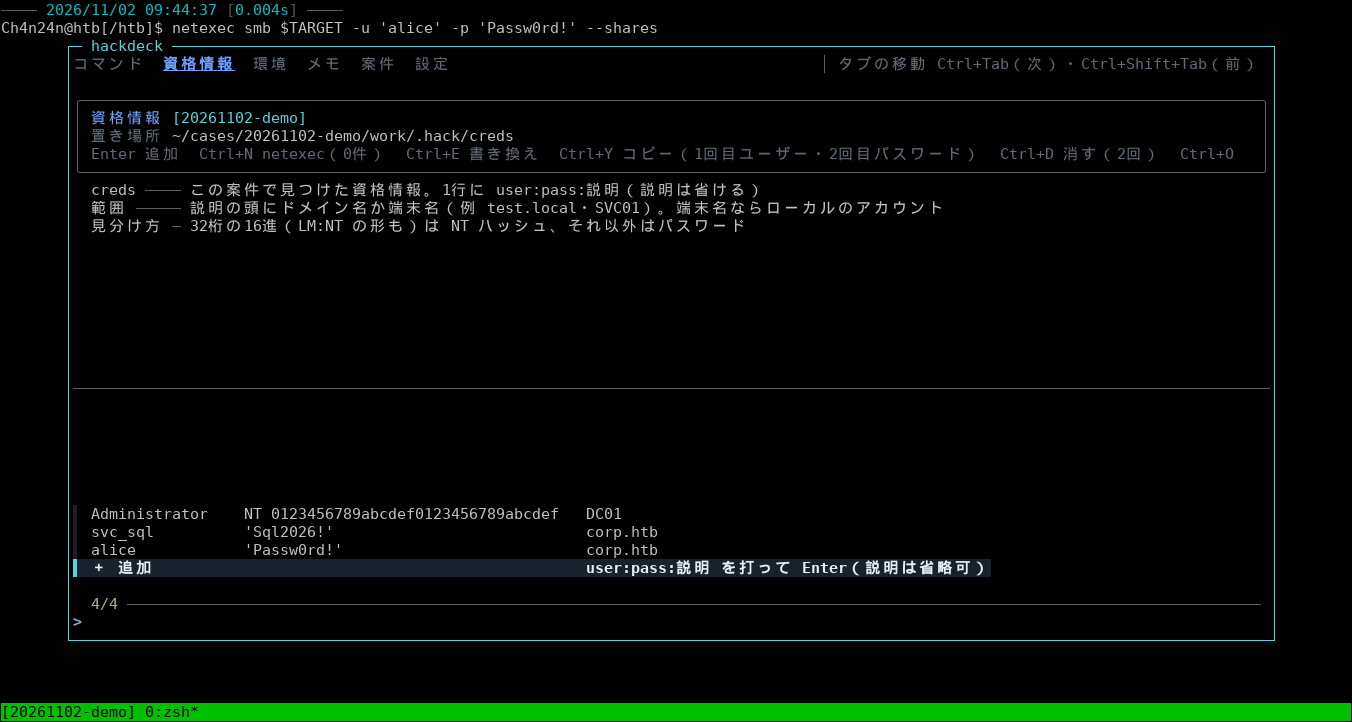
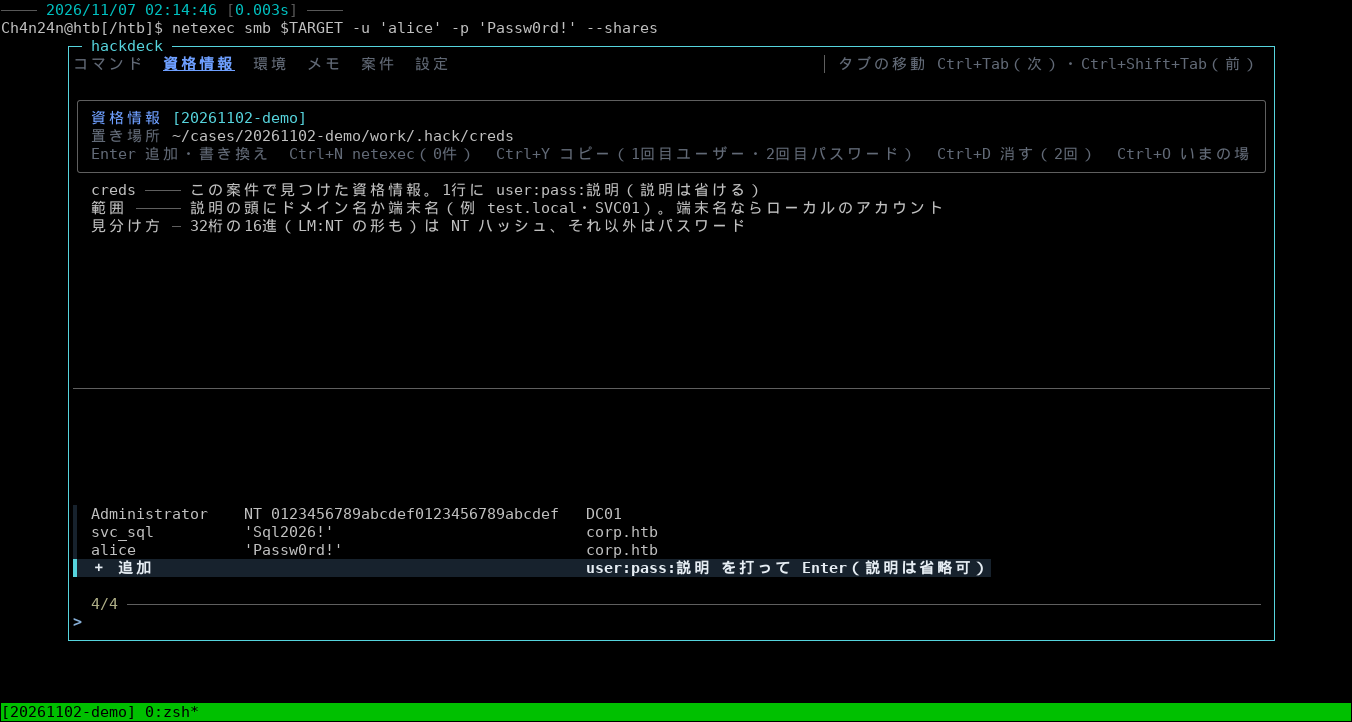
2026-11-07 の版: 資格情報・環境・設定の一覧は、行を選んで Enter で書き換え（Ctrl+E を外した）。Ctrl+W は空白と記号で止まる（user:pass:説明 を項目ごとに消せる）。環境のタブで、値に : がある変数を書き換えても壊れないように

diff --git a/hackdeck/tab_settings.py b/hackdeck/tab_settings.py
@@ -5,7 +5,7 @@
   choice     候補から選ぶ（配色。選ぶとすぐ変わる）
   bool       開かない。一覧で Enter を押すたびに、する・しないが変わる
   dir・text  いまの値を検索欄に出し、直して Enter で保存（打つたびに、値の問題を settings.problem で一言出す）
-  list       一覧を書く（Enter 足す・Ctrl+E 書き換え・Ctrl+D 外す）。settings.json の配列
+  list       一覧を書く（＋の行で Enter 足す・ほかの行で Enter 書き換え・Ctrl+D 外す）。settings.json の配列
   common     よく使うユーザー・パスワード（list と同じ操作。中身は paths.COMMON_CREDS）"""
 import os
 import shlex
@@ -148,8 +148,8 @@ def settings_screen(e, can_back, can_fwd):
     「設定タブは項目にし、クリックした後に選べるように」。はじめは1回のクリックで開いていたが、2026-11-01、どの画面もクリックの
     決まりをそろえるときに本人が「2回で決める」を選んだ。ui.fzf_run）。配色は選ぶとすぐ色が変わり、その画面のまま（本人の指摘「配色を変えても
     前のタブに移らなくていい」）。値を書く項目は、いまの値を検索欄に出し、直して Enter で保存して一覧に戻る（Alt+← でやめる）。
-    一覧を書く項目は、Enter 足す・Ctrl+E 書き換え・Ctrl+D 外す、Esc で項目の一覧に戻る（よく使うものは、はじめは大きいタブの
-    「よく使う」で書いていたが、2026-10-30、本人の指摘「ユーザーとパスワードは別々の設定項目に」でここへ移した）。
+    一覧を書く項目は、＋の行で Enter 足す・ほかの行で Enter 書き換え・Ctrl+D 外す、Esc で項目の一覧に戻る（よく使うものは、
+    はじめは大きいタブの「よく使う」で書いていたが、2026-10-30、本人の指摘「ユーザーとパスワードは別々の設定項目に」でここへ移した）。
     e: 列の1つ（v 開いている項目・q 検索語・f カーソルの行・e 書いている行・t 書き換える前の行）。戻り値は var_screen と同じ"""
     key, editing = e.get("v") or "", e.get("e")
     s = BY_KEY.get(key)
@@ -181,7 +181,7 @@ def settings_screen(e, can_back, can_fwd):
         line2 = f"いま {shown_value(s)}" if editing is None else "直して Enter で保存"
         srcs = [("書き方", s.hint), *where_lines(s)]
     else:
-        hint = ["Enter 追加", "Ctrl+E 書き換え", "Ctrl+D 外す（2回）"] \
+        hint = ["Enter 追加・書き換え", "Ctrl+D 外す（2回）"] \
             + (["Ctrl+O いまの場所に一覧を書き出す"] if s.kind == "common" else []) + nav_hint(can_back, can_fwd)
         line2 = s.help
         srcs = [("書き方", f"{s.hint} を打って Enter で足す"), *where_lines(s)]
@@ -191,7 +191,7 @@ def settings_screen(e, can_back, can_fwd):
                f"{theme.C_HINT}{line2}{C_RESET}\n{theme.C_HINT}{'  '.join(hint)}{C_RESET}")
     foot = foot_lines(srcs)
     keys = ["enter", "esc", *CLOSE_KEYS] + ([UP_KEY] if ui.NAV_UP else []) + (["tab", "btab"] if editing is None else []) \
-        + (["ctrl-d", "ctrl-e"] if listing and editing is None else []) \
+        + (["ctrl-d"] if listing and editing is None else []) \
         + (["alt-left"] if can_back else []) + (["alt-right"] if can_fwd else [])
     # どの一覧も、絞るのは hackdeck 側（c_settingrows。配色の一覧は見出しを残すため）。打ったら、いちばん下の行へ（load:first。
     # ほかのタブと同じ）
@@ -281,14 +281,13 @@ def list_action(e, s, pending, typed, key_pressed, sel, editing):
         if twice(e, pending, "del", sel, f"もう一度 Ctrl+D で外す: {items[sel].split('  ')[0].strip()}"):
             keep_place(e, sel, c_settingrows, typed, view_env, lambda: list_remove(key, sel))
         return ("stay",)
-    if key_pressed == "ctrl-e" and sel in items:
-        q0, old = list_text(key, sel)
-        return ("push", {"s": "settings", "v": key, "q": q0, "f": "save", "e": sel, "t": old})
     if key_pressed not in ("enter", ""):
         return nav_key(key_pressed, "settings")
-    if sel in items:   # 資格情報・環境のタブと同じ（前は、どの行で Enter しても打った文字を足していた）
-        e["msg"] = "書き換えは Ctrl+E（Enter は一番下の行で足す）"
-        return ("stay",)
+    if sel in items:
+        # 書き換え（資格情報・環境のタブと同じく、行を選んで Enter で。2026-11-07 から。前は Ctrl+E で、Enter は「書き換えは
+        # Ctrl+E」と出すだけ。その前は、どの行で Enter しても打った文字を足していた）。一覧の検索欄はそのまま（資格情報のタブと同じ）
+        q0, old = list_text(key, sel)
+        return ("push", {"s": "settings", "v": key, "q": q0, "f": "save", "e": sel, "t": old})
     text = typed.strip()
     why = item_problem(key, text)
     if why or not text:
@@ -347,7 +346,7 @@ def common_save(e, key, text, editing):
         return ("saved", f"cm:{i}" if i is not None else None)
     shown = common_shown(parse_cred_line(line, True), key)
     if any(common_shown(c, key) == shown for c in common_items(key)):
-        e["msg"] = f"{shown} はもうある（説明を変えるなら Ctrl+E）"
+        e["msg"] = f"{shown} はもうある（説明を変えるなら、その行で Enter）"
         return ("stay",)
     common_write(lines + [line])
     e["q"] = ""   # 打つ行に留まる

diff --git a/hackdeck/tab_env.py b/hackdeck/tab_env.py
@@ -39,7 +39,7 @@ def c_envrows(query=""):
         else:
             hint = f"Enter で {n} を足す" + ("" if n in keep else "（シェルの export でも書き戻すようにする）")
     else:
-        hint = "名前:値:説明 の形で打つ" if query else "名前:値:説明 を打って Enter（値・説明は省けて、名前だけでも足せる。例 DC01:10.10.11.5:DC）。書き換えは Ctrl+E"
+        hint = "名前:値:説明 の形で打つ" if query else "名前:値:説明 を打って Enter（値・説明は省けて、名前だけでも足せる。例 DC01:10.10.11.5:DC）"
     w = max([display_width(n) for n in [*vals, *keep]] + [12])
     print(f"add\t{fit('＋ 保存' if editing else '＋ 追加', w)}  {fit(query, 36)}  {hint}")
     if editing:
@@ -65,15 +65,16 @@ def c_envcopy(key):
 
 def env_screen(e, can_back, can_fwd):
     """環境の画面（大きいタブの「環境」。2026-10-30、tmux-op の op-env を合流）。案件の環境変数のファイル（env）の
-    変数を出し、打った 名前=値 を Enter で書く（もうある名前は、確かめてから上書き）。Ctrl+E で書き換え、Ctrl+D を2回で
+    変数を出し、打った 名前=値 を Enter で書く（もうある名前は、確かめてから上書き）。行を選んで Enter で書き換え、Ctrl+D を2回で
     消す（値の無い行なら、シェルの export で書き戻す名前から外す）、Ctrl+Y で値をコピー。操作は資格情報のタブと同じ
     （2026-10-30、本人の指摘「操作感は資格情報タブと同じに。共通にしたほうが覚えやすい」。はじめは行を選んで Enter でも
-    書き換えていた）。書いた値は、開いているどのペインも次に打つコマンドから効く（shell/hack.zsh が読み直す）。
+    書き換えていたが、そのときは資格情報のタブの Ctrl+E に寄せた。2026-11-07、本人の指摘で、どちらも行の Enter に）。
+    書いた値は、開いているどのペインも次に打つコマンドから効く（shell/hack.zsh が読み直す）。
     打った文字は、一覧を絞り（ほかのタブと同じ。絞るのは c_envrows）、そのままいちばん下の行で書く値にもなる。
     e: 列の1つ（q 検索語・f カーソルの行・e 書き換えている変数の名前）。戻り値は var_screen と同じ"""
     f, root, editing = env_file(), case_root(), e.get("e")
     if editing is None:
-        hint = ["Enter 追加", "Ctrl+E 書き換え", "Ctrl+Y $名前をコピー", "Ctrl+D 消す（2回）"] + nav_hint(can_back, can_fwd)
+        hint = ["Enter 追加・書き換え", "Ctrl+Y $名前をコピー", "Ctrl+D 消す（2回）"] + nav_hint(can_back, can_fwd)
     else:
         hint = ["Enter 保存"] + (["Alt+← 書き換えをやめる"] if can_back else []) + nav_hint(False, can_fwd)
     preview = (f"{theme.C_COMMENT}環境{C_RESET} {theme.C_TAG}[{root.name}]{C_RESET}\n"
@@ -84,7 +85,7 @@ def env_screen(e, can_back, can_fwd):
             ("export・unset", f"一覧にある名前なら、シェルで変えても {f.name} に保存される")]
     foot = foot_lines(srcs)
     keys = ["enter", "esc", *CLOSE_KEYS] + ([UP_KEY] if ui.NAV_UP else []) \
-        + (["ctrl-d", "ctrl-e", "tab", "btab"] if editing is None else []) \
+        + (["ctrl-d", "tab", "btab"] if editing is None else []) \
         + (["alt-left"] if can_back else []) + (["alt-right"] if can_fwd else [])
     pv = work_file("preview.txt", preview)
     args = ["fzf", "--layout=default", "--height=-1", "--ansi", "--disabled", "--no-sort", "--no-clear",
@@ -133,16 +134,16 @@ def env_screen(e, can_back, can_fwd):
             keep_place(e, sel, c_envrows, typed, {"HACKDECK_EDITING": ""},
                        lambda: env_keep_write([k for k in env_extra_names() if k != n]))
         return ("stay",)
-    if key == "ctrl-e" and sel.startswith("env:") and editing is None:
-        # 書き換え: 名前=いまの値 を検索ボックスに出し、Enter（保存の行）で書く（資格情報の画面の Ctrl+E と同じ）
-        d = env_name_lines().get(sel[4:], "")
-        return ("push", {"s": "env", "q": f"{sel[4:]}:{vals.get(sel[4:], '')}" + (f":{d}" if d else ""), "f": "add",
-                         "e": sel[4:]})
     if key != "enter":
         return nav_key(key, "env")
     if sel.startswith("env:"):
-        e["msg"] = "書き換えは Ctrl+E（Enter は一番下の行で足す）"
-        return ("stay",)
+        # 書き換え: 名前:いまの値:説明 を検索欄に出し、Enter（保存の行）で書く（資格情報の画面と同じく、行を選んで Enter で。
+        # 2026-11-07 から。前は Ctrl+E）。一覧の検索欄はそのまま（資格情報の画面と同じ）
+        n = sel[4:]
+        v, d = vals.get(n, ""), env_name_lines().get(n, "")
+        # 値に : があれば、説明が無くても最後に : を付ける（最後の : の後ろが説明なので。付けないと、そのまま Enter しただけで
+        # http://web01:8080 の 8080 を説明と読み、値が http://web01 になっていた）
+        return ("push", {"s": "env", "q": f"{n}:{v}" + (f":{d}" if d or ":" in v else ""), "f": "add", "e": n})
     pr = env_parse(typed) if sel == "add" else None
     if not pr or env_reserved(pr[0]):
         return ("stay",)

diff --git a/hackdeck/tab_creds.py b/hackdeck/tab_creds.py
@@ -78,8 +78,8 @@ def creds_screen(e, can_back, can_fwd):
     足し、Ctrl+D で消す（2026-10-29、本人の指摘「資格情報は自動で保存するとゴミが集まるので、Ctrl+G で入った画面の
     どこかで設定できたらいい」で追加）。打った文字は、一覧を絞り（ほかのタブと同じ。絞るのは c_credsrows）、そのまま
     いちばん下の行で足す値にもなる。
-    Ctrl+E で書き換え（保存の1行だけの画面を列に足す。Alt+← で書き換えをやめる）、Ctrl+Y でユーザー・パスワードを
-    クリップボードへ（同日、本人の指摘で追加）。
+    行を選んで Enter で書き換え（保存の1行だけの画面を列に足す。Enter で保存、Alt+← で書き換えをやめる。2026-11-07 から。前は
+    Ctrl+E）、Ctrl+Y でユーザー・パスワードをクリップボードへ（2026-10-29、本人の指摘で追加）。
     e: 列の1つ（q 検索語・f カーソルの行・e 書き換えている行の番号・t その行の書き換え前の中身・tab 大きいタブ（creds。
     同じ画面で開いていた「よく使う」は、2026-10-30 に設定のタブの2項目へ移した））。
     戻り値は var_screen と同じ。書き換えを保存したときだけ ("saved", カーソルを合わせる行)"""
@@ -100,7 +100,7 @@ def creds_screen(e, can_back, can_fwd):
     where = "~" + str(f)[len(home):] if str(f).startswith(home + "/") else str(f)
     if editing is None:
         n = len(nxc_found()[0])
-        hint = ["Enter 追加", f"Ctrl+N netexec（{n}件）", "Ctrl+E 書き換え",
+        hint = ["Enter 追加・書き換え", f"Ctrl+N netexec（{n}件）",
                 "Ctrl+Y コピー（1回目ユーザー・2回目パスワード）", "Ctrl+D 消す（2回）"] \
             + ["Ctrl+O いまの場所に一覧を書き出す"] + nav_hint(can_back, can_fwd)
     else:
@@ -115,7 +115,7 @@ def creds_screen(e, can_back, can_fwd):
             ("見分け方", "32桁の16進（LM:NT の形も）は NT ハッシュ、それ以外はパスワード")]
     foot = foot_lines(srcs)
     keys = ["enter", "esc", *CLOSE_KEYS] + ([UP_KEY] if ui.NAV_UP else []) \
-        + (["ctrl-d", "ctrl-e", "ctrl-n", "tab", "btab"] if editing is None else []) \
+        + (["ctrl-d", "ctrl-n", "tab", "btab"] if editing is None else []) \
         + (["alt-left"] if can_back else []) + (["alt-right"] if can_fwd else [])
     pv = work_file("preview.txt", preview)
     args = ["fzf", "--layout=default", "--height=-1", "--ansi", "--disabled", "--no-sort", "--no-clear",
@@ -159,18 +159,18 @@ def creds_screen(e, can_back, can_fwd):
             keep_place(e, sel, c_credsrows, typed, {"HACKDECK_EDITING": ""},
                        lambda: delete_cred(int(sel[3:]), f))
         return ("stay",)
-    if key == "ctrl-e" and sel.startswith("op:"):
-        # 書き換え: その行を検索ボックスに出し、Enter（保存の行）でその行に上書きする（2026-10-29、本人の指摘）
-        n = int(sel[3:])
-        line = f.read_text(encoding="utf-8").splitlines()[n]
-        return ("push", {"s": "creds", "tab": tab, "q": line, "f": "add", "e": n, "t": line})
     if key == "ctrl-n":
         return ("push", {"s": "nxc", "tab": tab, "q": "", "f": None})   # netexec が見つけた分（nxc_screen）
     if key != "enter":
         return nav_key(key, tab)
     if sel in rows:
-        e["msg"] = "書き換えは Ctrl+E（Enter は一番下の行で足す）"
-        return ("stay",)
+        # 書き換え: その行を検索欄に出し、Enter（保存の行）でその行に上書きする（2026-10-29、本人の指摘）。2026-11-07 から、行を
+        # 選んで Enter で（本人「既存の項目を選んで Enter したら編集モードに入り、再度 Enter したら設定のほうが直感的」。前は
+        # Ctrl+E で、Enter は「書き換えは Ctrl+E」と出すだけだった）。一覧の検索欄はそのまま（Alt+← でやめると、打っていた文字の
+        # まま戻る。同日いったん空にしたが、本人「一回戻って、再度入り直したときに、以前の記入を残すか？って話ね。なら残しておいて」）
+        n = int(sel[3:])
+        line = f.read_text(encoding="utf-8").splitlines()[n]
+        return ("push", {"s": "creds", "tab": tab, "q": line, "f": "add", "e": n, "t": line})
     if sel == "add" and CRED_ADD_RE.match(typed):
         if editing is None:
             # 同じもの（資格情報はユーザーと説明が同じ）があれば、確かめてから上書き。中身まで同じなら何もしない

diff --git a/hackdeck/fzfcall.py b/hackdeck/fzfcall.py
@@ -150,6 +150,34 @@ def c_casepos(query=""):
     print("pos(2)" if hit else "first")
 
 
+RUBOUT_MARK = "\ue000"   # Ctrl+W で、検索欄のカーソルの所に入れる目印（ui.fzf_run が put する。打つ字には出てこない私用の字）
+
+
+def word_char(c):
+    """Ctrl+W で1語とみなす字: 英数字（日本語などの字も）と _。空白と、ほかの記号（, . : ; / @ - ' " ( ) など。全角の（）、。も）で
+    止まる（VS Code の既定の語の区切りや、vim の語と同じ考え方）"""
+    return c.isalnum() or c == "_"
+
+
+def c_rubout(query):
+    """Ctrl+W（どの画面も。ui.fzf_run）。検索欄のカーソルの手前の1語を消す（すぐ前の空白・記号は先に飛ばし、その前の語の頭まで。
+    word_char）。user:pass:説明 なら項目ごと、URL・パス・IP は . や / ごとに消える（2026-11-07、本人の指摘「区切り文字を : に
+    すると Ctrl+W をしたときに、まとめてすべて削除してしまう。Ctrl+W で各項目ごと削除できるように」。fzf の既定の Ctrl+W
+    （unix-word-rubout）は空白でしか止まらない。区切り文字を空白に変える案は、値や説明の中の空白と見分けられなくなるので
+    やめた。はじめは空白と : だけで止めたが、同日、本人「一般的に止まるものは止めてほしい。,.:;/ とか」で記号のすべてに）。
+    fzf は検索欄のカーソルの位置を外に出さないので、ui.fzf_run がカーソルの所に目印を put してから呼ぶ。目印と、消す字の数だけ
+    backward-delete-char を出す（カーソルが途中にあれば、その手前の1語だけが消え、後ろは残る）"""
+    i = query.find(RUBOUT_MARK)
+    if i < 0:
+        return
+    j = i
+    while j and not word_char(query[j - 1]):
+        j -= 1
+    while j and word_char(query[j - 1]):
+        j -= 1
+    print("+".join(["backward-delete-char"] * (1 + i - j)))
+
+
 def replay():
     """前にこの画面を出していたときのカーソルの動き（向きの変わった所）をたどり直す pos(…)+ の並び。ui.fzf_run が覚えて
     HACKDECK_REPLAY で渡す。最初の画面を描く前に動かすので、一覧の見え方が前と同じになる（途中の動きは見えない）"""

diff --git a/hackdeck/cli.py b/hackdeck/cli.py
@@ -47,6 +47,7 @@ USAGE = """使い方: hackdeck [サブコマンド] [引数]
   envrows [打った文字]               環境の画面の fzf（reload）から呼ばれる
   caserows [打った文字]              案件の画面の fzf（reload）から呼ばれる
   casepos [打った文字]               案件の画面の fzf（load）から呼ばれる
+  rubout <打った文字>                どの画面の fzf（Ctrl+W）からも呼ばれる（カーソルの手前の1語を消す。空白と記号で止まる）
   settingrows [打った文字]           設定の画面の fzf（reload）から呼ばれる
   footclick <対応表|->               足もと（流れの図）のクリック（fzf の click-footer）から呼ばれる
   env-capture <set|unset> <名前> <値> ...   シェルで export・unset した変数を書き戻す（shell/hack.zsh から呼ばれる）
@@ -135,7 +136,7 @@ def main(argv):
     cmd, args = argv[0], argv[1:]
     a0 = args[0] if args else ""
     # fzf から、打つたび・カーソルが動くたび・画面を出すたびに呼ばれるもの（いちばん軽く。fzfcall は text だけを読む）
-    if cmd in ("findpos", "findidx", "complete", "typed", "pick", "casepos"):
+    if cmd in ("findpos", "findidx", "complete", "typed", "pick", "casepos", "rubout"):
         from . import fzfcall
         if cmd == "findpos" and len(args) in (2, 3):
             fzfcall.c_findpos(*args)
@@ -149,6 +150,8 @@ def main(argv):
             fzfcall.c_pick(*args)
         elif cmd == "casepos":
             fzfcall.c_casepos(a0)
+        elif cmd == "rubout":
+            fzfcall.c_rubout(a0)
         else:
             print(USAGE, file=sys.stderr)
             return 2

diff --git a/hackdeck/ui.py b/hackdeck/ui.py
@@ -7,7 +7,7 @@ import shutil
 import subprocess
 
 from .text import ANSI_RE, display_width, fit, fit_desc, out, term_cols
-from .fzfcall import HEADING
+from .fzfcall import HEADING, RUBOUT_MARK
 from .case import case_root
 from .paths import RUN_DIR
 from .theme import B_ON, C_LINE, C_RESET, U_ON
@@ -244,6 +244,10 @@ def fzf_run(args, tab, clickonly=False, place=None, **kw):
     # 戻る・進む・上へ（Alt+←・→・↑）は、その画面で受けないときは何もしない（fzf の既定の「1語の左右」などにさせない。
     # 2026-10-29。前は画面ごとに書いていた）
     args = args + [a for k in ("alt-left", "alt-right", UP_KEY) if k not in expect for a in ("--bind", f"{k}:ignore")]
+    # Ctrl+W は、カーソルの手前の1語を消す（空白と記号で止まる。user:pass:説明 は項目ごと。2026-11-07、本人の指摘「区切り文字を
+    # : にすると Ctrl+W をしたときに、まとめてすべて削除してしまう」「一般的に止まるものは止めてほしい」。fzf の既定は空白でしか
+    # 止まらない）。fzf はカーソルの位置を外に出さないので、カーソルの所に目印を入れてから、消す字の数を数える（fzfcall.c_rubout）
+    args = args + ["--bind", f"ctrl-w:put({RUBOUT_MARK})+transform:hackdeck rubout {{q}}"]
     if tab in order and "btab" in expect:
         i = order.index(tab)
         for key, to, move in (("left", order[i - 1], "backward-char"), ("right", order[(i + 1) % len(order)], "forward-char")):

diff --git a/docs/DESIGN.md b/docs/DESIGN.md
@@ -123,10 +123,22 @@ netexec の日時・並びの自動保存）。時刻と戻るコマンドの設
   区別しない（fzf の smart-case と同じ）。当たった所に下線（`fzfcall.mark_match`。色の印の中には引かない。`--ansi` が要る）。
   足せる画面（資格情報・環境・案件・設定の一覧を書く項目）は、先頭（画面ではいちばん下）の「＋」の行を絞らずに出し、打った文字が
   そのまま足す値になる（変数の画面の「そのまま使う」の行も同じ）。打ったら `load:first` でその行へ（案件のタブだけは、当たる案件が
-  あればその先頭へ。入るのが主なので。`casepos`）。足す行でない行の Enter は「書き換えは Ctrl+E」。書き換え・値を書く項目は、
-  保存の1行だけ（打った文字が値）。打った文字は列の `e["q"]` に残す（タブを移って戻っても・一言を出し直しても）。カーソルの行ごとに
+  あればその先頭へ。入るのが主なので。`casepos`）。足す行でない行の Enter は書き換え（その行を検索欄に出した、保存の1行だけの
+  画面を列に足す。Enter で保存、`Alt+←` でやめる。案件のタブは入る＝名前を変えるのは `Ctrl+E`。2026-11-07、本人の指摘「既存の
+  項目を選んで Enter したら編集モードに入り、再度 Enter したら設定のほうが直感的」。前は「書き換えは Ctrl+E」と出すだけ）。書き換え・
+  値を書く項目は、保存の1行だけ（打った文字が値）。書き換えから戻るとき、保存なら一覧の検索欄は空（`nav.nav_saved`）、
+  `Alt+←` でやめるなら書き換えに入る前に打っていた文字のまま（列の前の画面に戻るだけ。2026-11-07、いったん空にしたが、
+  本人の指摘で戻した）。打った文字は列の `e["q"]` に残す（タブを移って戻っても・一言を出し直しても）。カーソルの行ごとに
   上の枠が変わる画面（コマンド選び・履歴・設定の項目の一覧）は `ui.item_preview` で、当たる行が無いときも題とキーを出す（fzf は
   カーソルの行が無いと枠を空にする）。足もとを行ごとに変える画面は、当たる行が無いときに同じ高さの空の行を出す（`{1}` が空）。
+- **Ctrl+W**: どの画面も、検索欄のカーソルの手前の1語を消す（すぐ前の空白・記号は先に飛ばし、その前の語の頭まで）。1語は
+  英数字（日本語などの字も）と `_`（`fzfcall.word_char`。VS Code の既定の語の区切りや vim の語と同じ考え方）で、空白と記号
+  （`,` `.` `:` `;` `/` `@` `-` など）で止まる。`user:pass:説明` は項目ごとに消える（2026-11-07、本人の指摘「区切り文字を : に
+  すると Ctrl+W をしたときに、まとめてすべて削除してしまう」「一般的に止まるものは止めてほしい」）。fzf の既定
+  （`unix-word-rubout`）は空白でしか止まらず、`backward-kill-word` は `_` でも止まり（`svc_sql` が2語になる）、区切りを決める
+  設定も無い。fzf はカーソルの位置を外に出さないので、`ui.fzf_run` が `ctrl-w` に「カーソルの所に目印（`fzfcall.RUBOUT_MARK`）を
+  put してから `hackdeck rubout {q}` を transform」を付け、`fzfcall.c_rubout` が目印の手前を数えて、目印ごと消す数だけ
+  `backward-delete-char` を返す（カーソルが途中にあっても、その手前の1語だけが消える）。画面の側で `ctrl-w` を割り当てない。
 - **見出し**: 候補の見出しと空行は、1列目が `ui.HEADING` の行（`ui.grouped`・`fzfcall.filter_grouped` が作る）。選択肢ではないので、
   `ui.fzf_run` が、候補の1列目をタブで区切る画面すべてで、カーソルを見出しに止めない（`focus` で、移った向きにもう1つ進む。
   いちばん上の見出しは一覧を1行ずらして見せる）。見出しのある一覧は、絞るのも hackdeck 側（`filter_grouped`。当たった行のある
